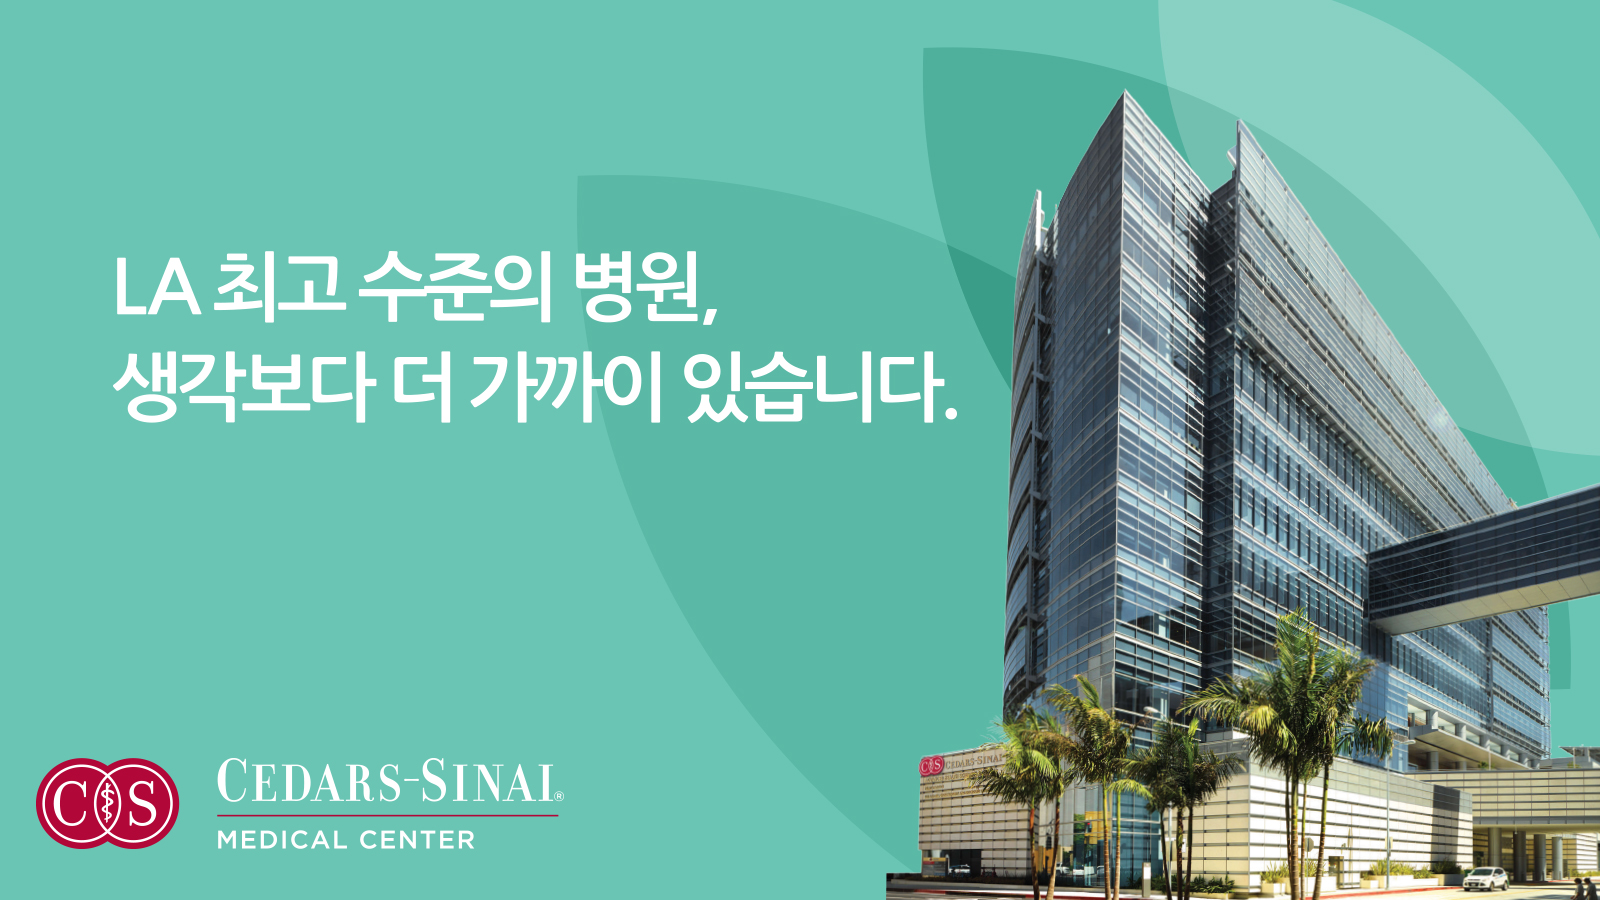
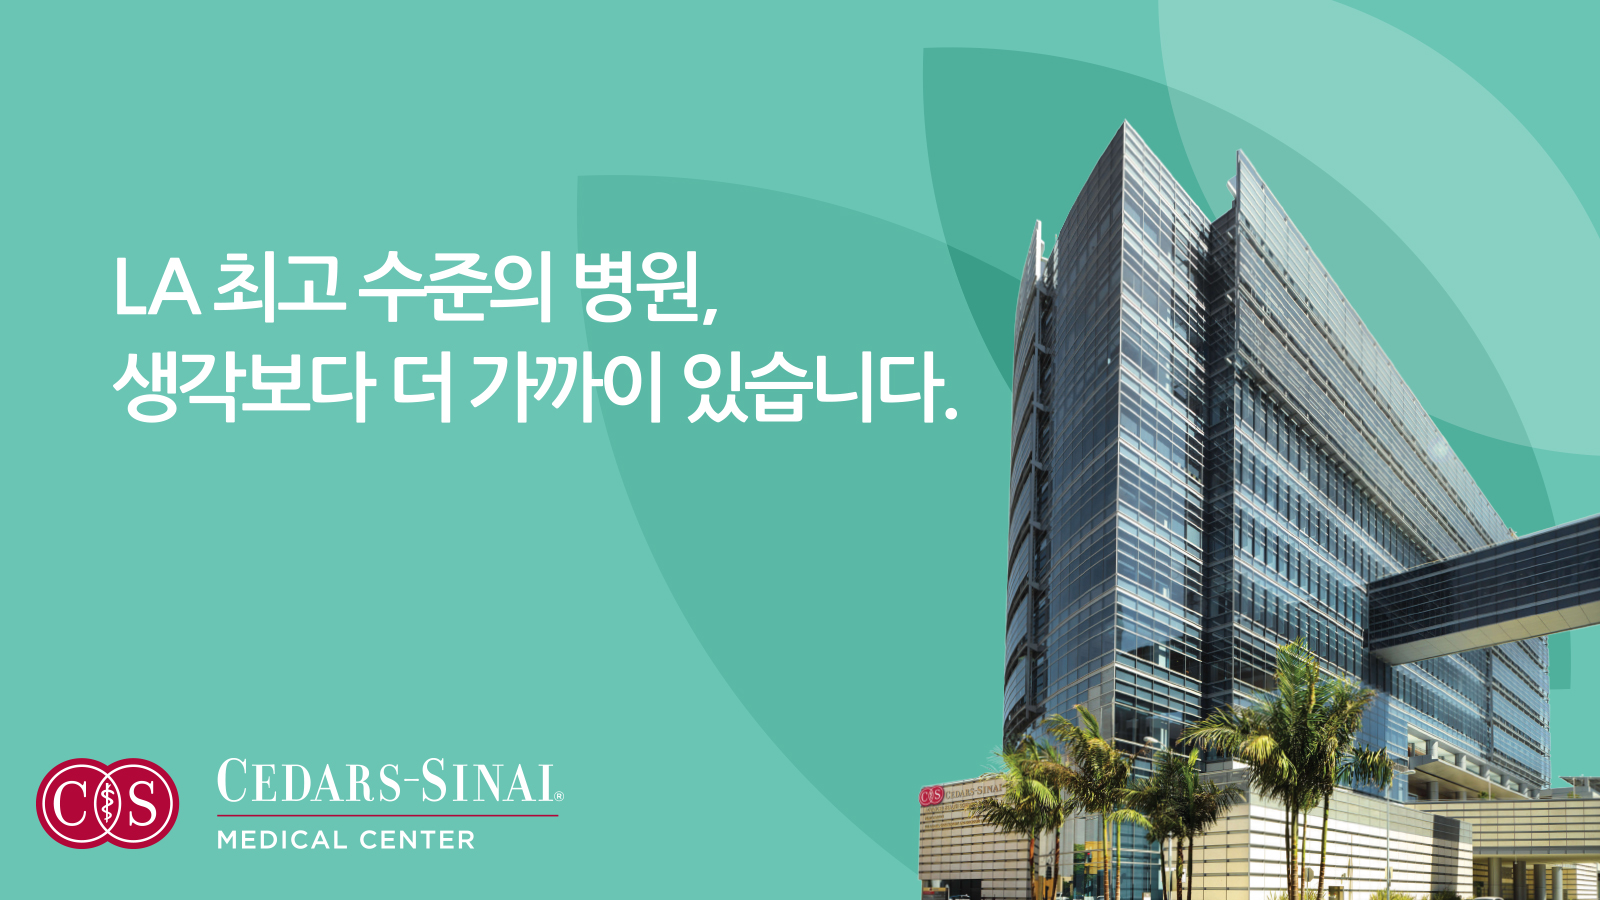
project inner

Changed region(s): [[0.5312, 0.0933, 1.0, 1.0]]

diff --git a/seonchoi_portfolio/projects_cedars-sinai_outdoor-promotion.html b/seonchoi_portfolio/projects_cedars-sinai_outdoor-promotion.html
@@ -44,20 +44,23 @@
 
 				<section class="section_wrapper"> 
 					<div class="projects_title contents_wrapper">
-						<h1>Most up to date Golf gears!</h1>
-						<h2>GolfBuddy Regular Subscription</h2>
+						<h1>Quality care everywhere you are!</h1>
+						<h2>Cedars-Sinai Outdoor Promotion</h2>
 					</div>
 
-					<img src="images/projects/golfbuddy_2015-2016_regular-subscription_main.jpg" alt="GolfBuddy Regular Subscription" title="GolfBuddy Regular Subscription">
+					<img src="images/projects/cedars-sinai_2017_outdoor_main.jpg" alt="Cedars-Sinai Outdoor Promotion" title="Cedars-Sinai Outdoor Promotion">
 
 					<div class="paragraph contents_wrapper">
 						<h3>About Client</h3>
-						<p>GolfBuddy is a leading innovator in the golf rangefinder industry with a primary goal to provide the most accurate and innovative golf rangefinders in the market. GolfBuddy has the most accurate course database with physically verified courses across the world.</p>
+						<p>Cedars-Sinai is a nonprofit academic healthcare organization serving the diverse Los Angeles community. Cedars-Sinai serves more than 1 million people each year in over 40 locations, with more than 4,500 physicians and nurses and 1,500 research projects in motion. Cedars-Sinai is dedicated to providing care for everyone who needs it.</p>
 					</div>
 
-					<img src="images/projects/golfbuddy_2015-2016_regular-subscription_e-blast.jpg" alt="GolfBuddy Regular Subscription E-Blast" title="GolfBuddy Regular Subscription E-Blas">
-					<img src="images/projects/golfbuddy_2015-2016_regular-subscription_microsite.jpg" alt="GolfBuddy Regular Subscription Microsite" title="GolfBuddy Regular Subscription Microsite">
-
+					<img src="images/projects/cedars-sinai_2017_outdoor_light-box_1.jpg" alt="Cedars-Sinai Outdoor Promotion Light Box" title="Cedars-Sinai Outdoor Promotion Light Box">
+					<img src="images/projects/cedars-sinai_2017_outdoor_light-box_2.jpg" alt="Cedars-Sinai Outdoor Promotion Light Box" title="Cedars-Sinai Outdoor Promotion Light Box">
+					<img src="images/projects/cedars-sinai_2017_outdoor_light-box_3.jpg" alt="Cedars-Sinai Outdoor Promotion Light Box" title="Cedars-Sinai Outdoor Promotion Light Box">
+<!-- 					<img src="images/projects/cedars-sinai_2017_outdoor_light-box_4.jpg" alt="Cedars-Sinai Outdoor Promotion Light Box" title="Cedars-Sinai Outdoor Promotion Light Box"> -->
+					<img src="images/projects/cedars-sinai_2017_outdoor_elevator-wraps.jpg" alt="Cedars-Sinai Outdoor Promotion Elevator Wraps" title="Cedars-Sinai Outdoor Promotion Elevator Wraps">
+	
 					<div class="paragraph contents_wrapper">
 						<h3>Project Background</h3>
 						<p>Every month, GolfBuddy advertise their featured products at PGA golf magazine and send e-blast to existing customers to grab the brand loyalty. And for every year, GolfBuddy participates in PGA Merchandise Show which is the great opportunity of B2B.</p>
@@ -69,12 +72,12 @@
 						<div class="list clearfix">
 							<h3 class="col_50 no_border margin_right">Project Detail</h3>
 							<ul class="col_50 no_border margin_left">
-								<li>&#9656;Project: Regular Subscription</li>
-								<li>&#9656;Client: GolfBuddy</li>
-								<li>&#9656;Website: <a href="http://www.golfbuddyglobal.com" target="_blank">www.golfbuddyglobal.com</a></li>
-								<li>&#9656;Medium: Magazine / E-Blast / Microsite / Web Banner</li>
-								<li>&#9656;Language: English</li>
-								<li>&#9656;Period: 2015-2016</li>
+								<li>&#9656;Project: Outdoor Promotion</li>
+								<li>&#9656;Client: Cedars-Sinai</li>
+								<li>&#9656;Website: <a href="http://www.cedars-sinai.org" target="_blank">www.cedars-sinai.org</a></li>
+								<li>&#9656;Medium: Outdoor - Light Box, Elevator Wraps</li>
+								<li>&#9656;Language: Korean / English</li>
+								<li>&#9656;Period: 2017</li>
 							</ul>
 						</div>
 					</div>

diff --git a/seonchoi_portfolio/projects_cedars-sinai_specialty-campaignt.html b/seonchoi_portfolio/projects_cedars-sinai_specialty-campaignt.html
@@ -44,20 +44,23 @@
 
 				<section class="section_wrapper"> 
 					<div class="projects_title contents_wrapper">
-						<h1>Most up to date Golf gears!</h1>
-						<h2>GolfBuddy Regular Subscription</h2>
+						<h1>Expert care for life!</h1>
+						<h2>Cedars-Sinai Specialty Campaign</h2>
 					</div>
 
-					<img src="images/projects/golfbuddy_2015-2016_regular-subscription_main.jpg" alt="GolfBuddy Regular Subscription" title="GolfBuddy Regular Subscription">
+					<img src="images/projects/cedars-sinai_2017_outdoor_main.jpg" alt="Cedars-Sinai Outdoor Promotion" title="Cedars-Sinai Outdoor Promotion">
 
 					<div class="paragraph contents_wrapper">
 						<h3>About Client</h3>
-						<p>GolfBuddy is a leading innovator in the golf rangefinder industry with a primary goal to provide the most accurate and innovative golf rangefinders in the market. GolfBuddy has the most accurate course database with physically verified courses across the world.</p>
+						<p>Cedars-Sinai is a nonprofit academic healthcare organization serving the diverse Los Angeles community. Cedars-Sinai serves more than 1 million people each year in over 40 locations, with more than 4,500 physicians and nurses and 1,500 research projects in motion. Cedars-Sinai is dedicated to providing care for everyone who needs it.</p>
 					</div>
 
-					<img src="images/projects/golfbuddy_2015-2016_regular-subscription_e-blast.jpg" alt="GolfBuddy Regular Subscription E-Blast" title="GolfBuddy Regular Subscription E-Blas">
-					<img src="images/projects/golfbuddy_2015-2016_regular-subscription_microsite.jpg" alt="GolfBuddy Regular Subscription Microsite" title="GolfBuddy Regular Subscription Microsite">
-
+					<img src="images/projects/cedars-sinai_2017_outdoor_light-box_1.jpg" alt="Cedars-Sinai Outdoor Promotion Light Box" title="Cedars-Sinai Outdoor Promotion Light Box">
+					<img src="images/projects/cedars-sinai_2017_outdoor_light-box_2.jpg" alt="Cedars-Sinai Outdoor Promotion Light Box" title="Cedars-Sinai Outdoor Promotion Light Box">
+					<img src="images/projects/cedars-sinai_2017_outdoor_light-box_3.jpg" alt="Cedars-Sinai Outdoor Promotion Light Box" title="Cedars-Sinai Outdoor Promotion Light Box">
+<!-- 					<img src="images/projects/cedars-sinai_2017_outdoor_light-box_4.jpg" alt="Cedars-Sinai Outdoor Promotion Light Box" title="Cedars-Sinai Outdoor Promotion Light Box"> -->
+					<img src="images/projects/cedars-sinai_2017_outdoor_elevator-wraps.jpg" alt="Cedars-Sinai Outdoor Promotion Elevator Wraps" title="Cedars-Sinai Outdoor Promotion Elevator Wraps">
+	
 					<div class="paragraph contents_wrapper">
 						<h3>Project Background</h3>
 						<p>Every month, GolfBuddy advertise their featured products at PGA golf magazine and send e-blast to existing customers to grab the brand loyalty. And for every year, GolfBuddy participates in PGA Merchandise Show which is the great opportunity of B2B.</p>
@@ -69,12 +72,12 @@
 						<div class="list clearfix">
 							<h3 class="col_50 no_border margin_right">Project Detail</h3>
 							<ul class="col_50 no_border margin_left">
-								<li>&#9656;Project: Regular Subscription</li>
-								<li>&#9656;Client: GolfBuddy</li>
-								<li>&#9656;Website: <a href="http://www.golfbuddyglobal.com" target="_blank">www.golfbuddyglobal.com</a></li>
-								<li>&#9656;Medium: Magazine / E-Blast / Microsite / Web Banner</li>
-								<li>&#9656;Language: English</li>
-								<li>&#9656;Period: 2015-2016</li>
+								<li>&#9656;Project: Specialty Campaign</li>
+								<li>&#9656;Client: Cedars-Sinai</li>
+								<li>&#9656;Website: <a href="http://www.cedars-sinai.org" target="_blank">www.cedars-sinai.org</a></li>
+								<li>&#9656;Medium: Newspaper / Magazine / E-blast</li>
+								<li>&#9656;Language: Korean / English</li>
+								<li>&#9656;Period: 2017</li>
 							</ul>
 						</div>
 					</div>

diff --git a/seonchoi_portfolio/projects_hitejinro_hite-beer-dodgers-edition.html b/seonchoi_portfolio/projects_hitejinro_hite-beer-dodgers-edition.html
@@ -57,7 +57,7 @@
 
 					<img src="images/projects/hitejinro_2017_hite-beer-dodgers-edition-promotion_off-premise.jpg" alt="Hite Beer Dodgers Edition Promotion Off Premise" title="Hite Beer Dodgers Edition Promotion Off Premise">
 					<img src="images/projects/hitejinro_2017_hite-beer-dodgers-edition-promotion_sampling-event.jpg" alt="Hite Beer Dodgers Edition Promotion Sampling Event" title="Hite Beer Dodgers Edition Promotion Sampling Event">
-					<img src="images/projects/hitejinro_2017_hite-beer-dodgers-edition-promotion_elevator-wrap.jpg" alt="Hite Beer Dodgers Edition Promotion Elevator Wrap" title="Hite Beer Dodgers Edition Promotion Elevator Wrap">
+					<img src="images/projects/hitejinro_2017_hite-beer-dodgers-edition-promotion_elevator-wraps.jpg" alt="Hite Beer Dodgers Edition Promotion Elevator Wrap" title="Hite Beer Dodgers Edition Promotion Elevator Wraps">
 
 					<div class="paragraph contents_wrapper">
 						<h3>Project Background</h3>
